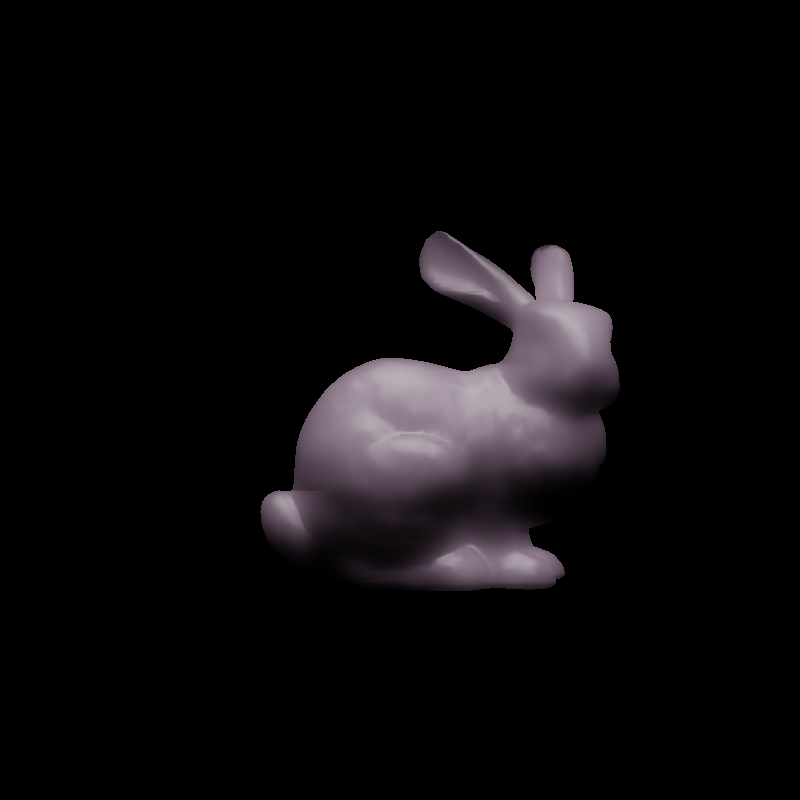
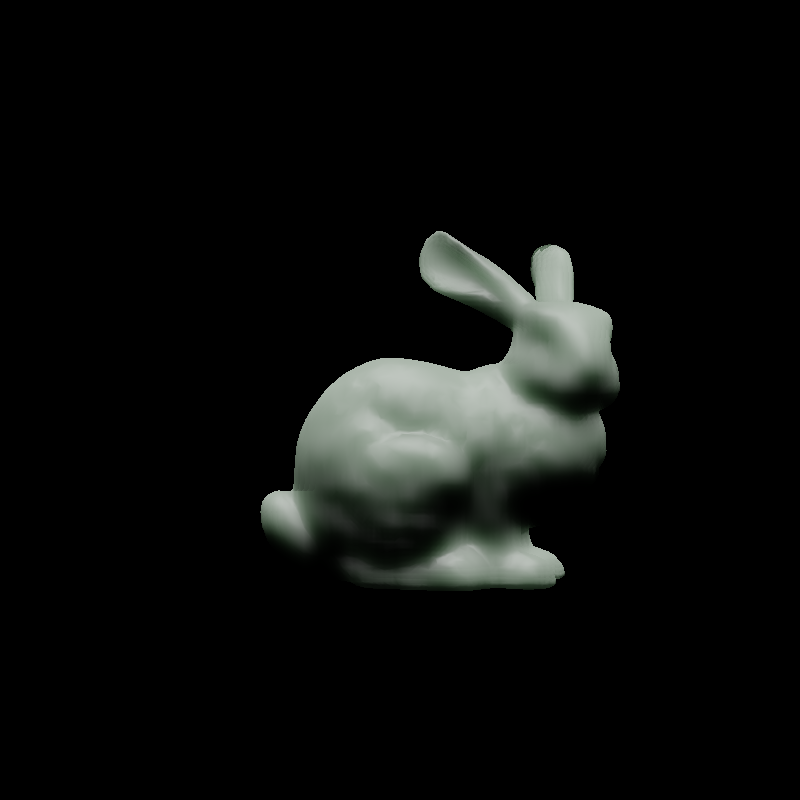
change parameter

Changed region(s): [[0.3125, 0.2812, 0.7812, 0.6875], [0.4375, 0.6562, 0.7188, 0.75]]

diff --git a/kernel_fitting.py b/kernel_fitting.py
@@ -7,11 +7,11 @@ import numpy as np
 import luisa
 from luisa.mathtypes import *
 
-SIGMA_A = np.array([0.014, 0.01, 0.029], dtype=np.float32)
-SIGMA_S = np.array([3.8, 3.0, 3.5], dtype=np.float32)
+SIGMA_A = np.array([0.3, 0.01, 0.3], dtype=np.float32)
+SIGMA_S = np.array([5.0, 5.0, 5.0], dtype=np.float32)
 G = np.array([0.0, 0.0, 0.0], dtype=np.float32)
 ETA = np.array([1.3, 1.3, 1.3], dtype=np.float32)
-WIDTH = 0.03
+WIDTH = 0.2
 
 
 def calculate_diffuse_mean_free_path(sigma_a: np.ndarray, sigma_s: np.ndarray, g: np.ndarray,
@@ -37,7 +37,7 @@ def sample_radius(d: np.float32, x: np.ndarray) -> np.ndarray:
     return ne.evaluate('-3 * log(x - y) * d')
 
 
-GRID_WIDTH = 11
+GRID_WIDTH = 5
 NUM_SAMPLES = 100000000
 luisa.init('cuda')
 radii = luisa.Buffer.empty(NUM_SAMPLES, dtype=float)
@@ -56,9 +56,9 @@ def roll_out() -> None:
 
 def f(x: np.ndarray, grad: np.ndarray):
     """
-    :param x: array of parameters
-    :param grad: the array where the gradient is to be stored
-    :return: L2 loss
+    @param x: array of parameters
+    @param grad: the array where the gradient is to be stored
+    @return: L2 loss
     """
     arr = np.expand_dims(x, 1)
     diff = arr * arr.T - distribution
@@ -69,7 +69,7 @@ def f(x: np.ndarray, grad: np.ndarray):
 
 if __name__ == "__main__":
     dmfp = calculate_diffuse_mean_free_path(SIGMA_A, SIGMA_S, G, ETA).astype('f4')
-    scale = np.amax(dmfp)
+    scale = np.average(dmfp)
     dmfp /= (scale * WIDTH)
     kernel = np.empty((GRID_WIDTH * 2 - 1, 3), dtype=np.float32)
     rng = np.random.default_rng()
@@ -87,7 +87,7 @@ if __name__ == "__main__":
         opt.set_lower_bounds(np.zeros(GRID_WIDTH, dtype=np.float32))
         xopt = opt.optimize(np.ones(GRID_WIDTH, dtype=np.float32))
         kernel[:, i] = np.concatenate((xopt[::-1], xopt[1:]))
-    kernel /= np.max(np.sum(kernel, 0), 0)
+    kernel /= np.sum(kernel, 0)
     with open("include.glsl", "w") as f:
         f.write(f"#define KERNEL_WIDTH {2 * GRID_WIDTH - 1}\n")
         f.write(f"#define DMFP {scale}\n")

diff --git a/main.py b/main.py
@@ -46,7 +46,7 @@ directional_lights: List[DirLight] = []
 point_lights: List[PointLight] = []
 surface_lights: List[SurfaceLight] = []
 model_file = "resources/objects/bunny.obj"
-material = Material(Vector3([0.6, 0.6, 0.6]), Vector3([0.2, 0.2, 0.2]), 16.0, 0.3, Vector3([8.0, 8.0, 8.0]))
+material = Material(Vector3([0.6, 0.7, 0.6]), Vector3([0.2, 0.2, 0.2]), 16.0, 0.3, Vector3([8.0, 8.0, 8.0]))
 """
 Light format:
 Light XXX
